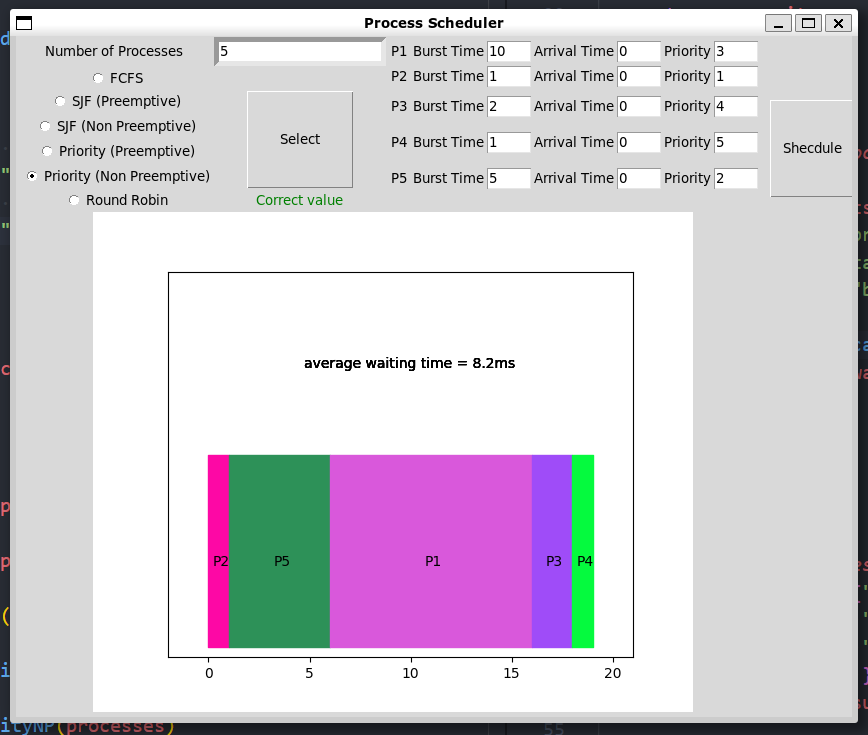
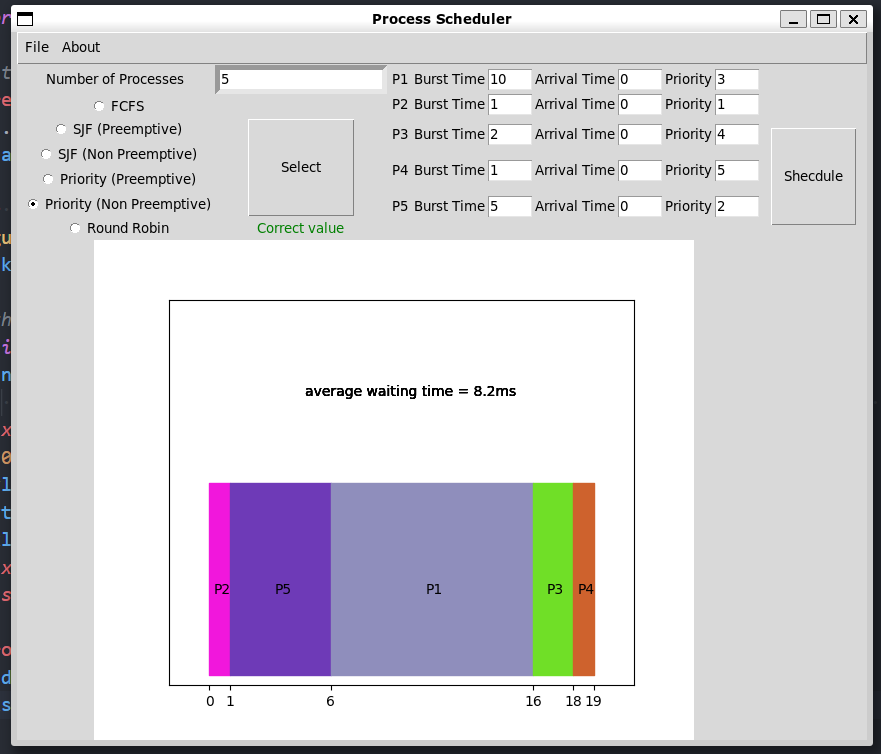
Adding menu and changing the Gnatt Chart xticks

diff --git a/App.py b/App.py
@@ -1,23 +1,60 @@
 from tkinter import *
-from Shcedulers import *
+from tkinter import messagebox
 import matplotlib.pyplot as plt
 from matplotlib.backends.backend_tkagg import FigureCanvasTkAgg
 from random import random
+from datetime import datetime
+
+
+from Shcedulers import *
 
 # Main Window
 window = Tk()
 window.title("Process Scheduler")
 window.minsize(600, 350)
 
+# Saving Figure
+
+
+def savefig():
+    global figure
+    figure.savefig(f"Process Scheduler {datetime.now()}.png")
+
+
+def about():
+    messagebox.showinfo("About", "Github: 0ssamaak0")
+
+
+# Menu
+menubar = Menu(window)
+
+filemenu = Menu(menubar, tearoff=0)
+aboutmenu = Menu(menubar, tearoff=0)
+
+filemenu.add_command(label="Save", command=savefig)
+
+filemenu.add_separator()
+
+filemenu.add_command(label="Exit", command=window.quit)
+
+aboutmenu.add_command(label="About", command=about)
+
+menubar.add_cascade(label="File", menu=filemenu)
+menubar.add_cascade(label="About", menu=aboutmenu)
+window.config(menu=menubar)
+
+# Inputs Frame
 frame = Frame(window)
 frame.grid(column=2, rowspan=10, columnspan=10)
 
+# Plot Frame
 plot = Frame(window)
 plot.grid(row=30, columnspan=10)
 
-
+# Processes empty list (will be list of dictionaries)
 processes = []
 
+# Round Robin Time slice
 time_slice_flag = False
 time_slice = 0
 
@@ -26,7 +63,6 @@ nprocess_label = Label(window, text="Number of Processes")
 nprocess_label.grid(row=0, column=0)
 nprocess_entry = Entry(window, bd=5)
 nprocess_entry.grid(row=0, column=1)
-
 
 # Type of Scheduler
 type = IntVar()
@@ -57,10 +93,9 @@ type_radio_5.grid(row=6, column=0)
 
 
 # processes_filling function
-
-
 def processes_filling():
 
+    # Removing input entries when changing the Sheduler of number of processes
     for widget in frame.winfo_children():
         widget.destroy()
     global processes
@@ -95,7 +130,7 @@ def processes_filling():
             frame, width=5)
         processes[i]["arrival_time"].grid(row=i, column=7)
 
-        # If priority
+        # If priority set priority
         if(int(type.get()) == 3 or int(type.get()) == 4):
             Label(frame, text="Priority").grid(row=i, column=8)
             processes[i]["priority"] = Entry(
@@ -104,7 +139,7 @@ def processes_filling():
         else:
             processes[i]["priority"] = -1
 
-    # If RR set time_slice
+    # If RoundRobin set time_slice
     if(int(type.get()) == 5):
         global time_slice_flag
         time_slice_flag = True
@@ -119,6 +154,7 @@ def processes_filling():
 
 
 def scheduler():
+    # Removing the Previous Plot
     for widget in plot.winfo_children():
         widget.destroy()
     global processes
@@ -134,6 +170,7 @@ def scheduler():
         time_slice = int(time_slice_entry.get())
         print(time_slice)
 
+    # if the first arrival time > 0, start from this time
     time_normalizer(processes)
     if(int(type.get()) == 0):
         (gnatt, avg_wait) = FCFS(processes)
@@ -148,15 +185,20 @@ def scheduler():
     elif (int(type.get()) == 5):
         (gnatt, avg_wait) = RoundRobin(processes, time_slice)
 
+    # setting random color for each process
     colors = [(random(), random(), random())
               for process in range(len(gnatt))]
 
+    # Preparing the figure and the ax
+    global figure
     figure = plt.Figure(figsize=(6, 5), dpi=100)
     ax = figure.add_subplot(111)
 
+    # Adding the plot
     canvas = FigureCanvasTkAgg(figure, plot)
     canvas.get_tk_widget().grid(columnspan=10)
 
+    # Plotting the Gnatt Chart
     for process in gnatt:
         ax.broken_barh([(process["start"], [process["end"] - process["start"]])], (0.5, 10),
                        label=f"P{process['processs_no'],}", color=colors[process["processs_no"] - 1])
@@ -167,6 +209,10 @@ def scheduler():
         ax.set_xlim(-2, gnatt[-1]["end"] + 2)
         ax.text(x=gnatt[-1]["end"] / 4, y=15,
                 s=f"average waiting time = {round(avg_wait, 2)}ms")
+
+    xticks = [process["start"] for process in gnatt]
+    xticks.append(gnatt[-1]["end"])
+    ax.set_xticks(xticks)
 
 
 # Submit Type and num Button

diff --git a/Shcedulers.py b/Shcedulers.py
@@ -1,11 +1,16 @@
 import copy
 
+""" if the first arrival time > 0, start from this time """
+
 
 def time_normalizer(processes):
     least = sorted(processes, key=lambda i: i["arrival_time_val"])[
         0]["arrival_time_val"]
     for i in range(len(processes)):
         processes[i]["arrival_time_val"] -= least
+
+
+""" Calculates the waiting time for each process, returns the average """
 
 
 def waiting_calc(gnatt, processes):
